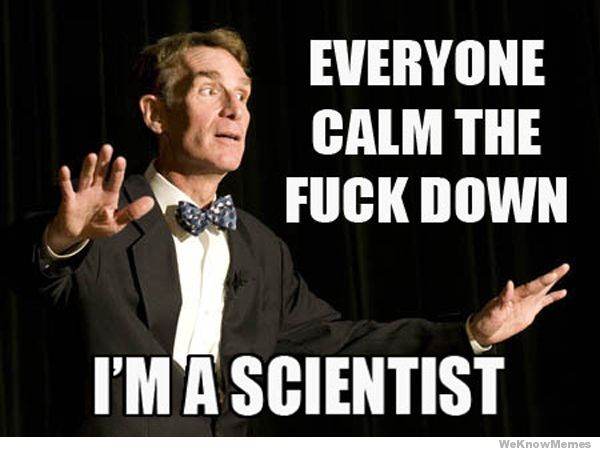
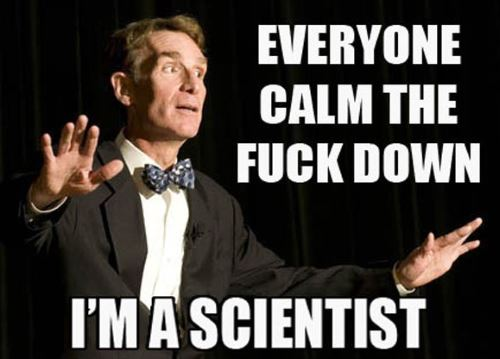
Post Angular Hullaballoo...

diff --git a/_posts/2014-11-27-the-angular-20-hullabaloo.md b/_posts/2014-11-27-the-angular-20-hullabaloo.md
@@ -1,7 +1,7 @@
 ---
 layout: post
 title: "The Angular 2.0 Hullabaloo"
-description: ""
+description: "Ever since ng-europe last month, people have been freaking out about Angular 2.0, initially I had written up some thoughts about this in the days following, but I decided to wait a while for things to settle down before writing about this.  I am hardly an Angular expert, and though I do use it both at work and also in pet projects I wondered really how much I had to add to the discussion." 
 category: Programming
 tags: [Javascript, Controversy]
 ---
@@ -66,21 +66,57 @@ will lose one of its greatest assets.
 
 **Calm The F*ck Down -- Nothing Is Set In Stone -- There Will Be A Migration Plan**
 
+<img src="/img/calm-down.jpg" style="float:left; border: 1px solid #000; margin: 0 10px 10px 0">
 
 
 First of all, people overreact, developers doubly so.  Criticize a developers favorite editor or IDE if you ever want to 
 see this effect in action.  Move someones cheese and watch the freak-outs happen, so it cane as no surprise that when 
 people finally realized that Angular 2 was going to be drastically different there was going to be s reaction.  
-Though the lead developers had been dropping hints about this for weeks and months[] it was never 100% clear until 
-ng-europe and the new syntax was demoed on screen[].  Part of the problem was the fact that there hadn't been much 
-transparency or consultation of what the users of angular wanted (and no, that isn't the responsibility of the 
-developers of an open source project but if they want to retain said users they should probably keep that thought 
-in mind).  The other problem is a lot of users felt that the Angular developers where basically architecture 
-astronauts searching for a more elegant solution  where most people were happy with Angular's approach.  
+Though the lead developers had been [dropping](http://angularjs.blogspot.ca/2014/03/angular-20.html) 
+[hints](http://www.johnpapa.net/whats-coming-in-angularjs-2-0/) about major changes months but the scope of the change
+was never 100% clear until ng-europe and the new syntax was demoed on [screen](https://www.youtube.com/watch?v=gNmWybAyBHI).  
+Part of the problem was the fact that there hadn't been much transparency or consultation of what the users of 
+angular wanted (and no, that isn't the responsibility of the developers of an open source project but if they want 
+to retain said users they should probably keep that thought in mind).  The other problem is a lot of users felt 
+that the Angular developers where basically architecture astronauts searching for a more elegant solution where most 
+people were happy with Angular's approach.  
 
 Of course the truth is always more complicated, and because of the internet freakout the angular developers have 
-kind of jumped into crisis management mode writing blog posts[] and appearing on podcasts[] to explain exactly 
-what is going on.   Part of the changes are because
+kind of jumped into crisis management mode writing blog [posts](http://eisenbergeffect.bluespire.com/all-about-angular-2-0/)  
+and appearing on [podcasts][http://devchat.tv/adventures-in-angular/016-aia-ng-1-3-and-2-0-with-brad-green-igor-minar-and-mi-ko-hevery] to explain exactly 
+what is going on.   Part of the changes are because even though it has Angular has sprung to popularity in the past
+couple of years, it was initially written 5 years ago when the state of web technologies was different and to include
+modern and upcoming features like [Shadow Dom](http://www.html5rocks.com/en/tutorials/webcomponents/shadowdom/), 
+[Object Observe](http://www.html5rocks.com/en/tutorials/es7/observe/), and 
+[Web Components](http://www.html5rocks.com/en/tutorials/webcomponents/customelements/) things under the hood have
+to change in fairly major ways.  However, one would think that these new technologies could be implimented in ways
+that don't require a complete change of the way Angular is written (although in various places the architects
+behind Angular claim that it was necessary to change the way attributes are notated to get web components to work).
+
+It is important to remember that Angular 2 is in the design process, and undoubtedly will change before the final
+version is released.  The developers have promised that when they get closer to release there will be some kind
+of a migration story.  And the backlash has been intense so plans for what Angular 2 will be might change or 
+they might change the lifespan of Angular 1.x and continue it longer than the original 18 months earlier stated.  In
+fact, my guess is the appearance of the [AngularJS 1.4 Planning](https://docs.google.com/document/d/13UG5sdi9paJdr_NvZ3IqxGnjkQvqJe1GGkQTXdfbnIk)
+guide and the fact that appears to be a version 1.4 upcoming is a sign that the developers are listening.
+
+**Conclusion** 
+
+The griping about Angular 2.0 and the way it was quietly developed in isolation is certainly grounded (I mostly agree with
+John Petersen's conclusions in his blog post [How Google broke the OSS compact with Angular 2.0](http://codebetter.com/johnvpetersen/2014/10/27/how-google-broke-the-oss-compact-with-angular-2-0/)).  It certainly seems like
+the people chosen to run the Angular project could learn a lot from some of the more mature projects in the space.  
+jQuery, for example, telegraphs their intentions for major changes years in advance and deprecates features very slowly
+and even includes compatibility plugins (with deprecation notices so that you can find and update your code) when they
+finally do remove a feature (and even then people get [frustrated](http://stackoverflow.com/questions/14891412/jquery-live-is-deprecated-well-okay-but-is-not-replaced)).
+  
+I am still on the Angular bandwagon, but when people ask me now whether it is still worth learning Angular or should 
+they learn [React](http://facebook.github.io/react/) or [Ember](http://emberjs.com/) or wait for Angular 2 I am 
+less emphatic in my "of course learn Angular refrain from the past".  Now I would definitely say try a bit of 
+each and pick the one you like best after a few hours with each framework, and if you do pick Angular definately use
+the Controller as abstraction.  And to the developers of Angular I would say that there is lots about Angular that can be 
+improved without changing everything rewriting the framework (at least keep working on the 1.x branch until a 
+majority of the [750+ issues](https://github.com/angular/angular.js/issues) are closed.  
+
 
 
 
